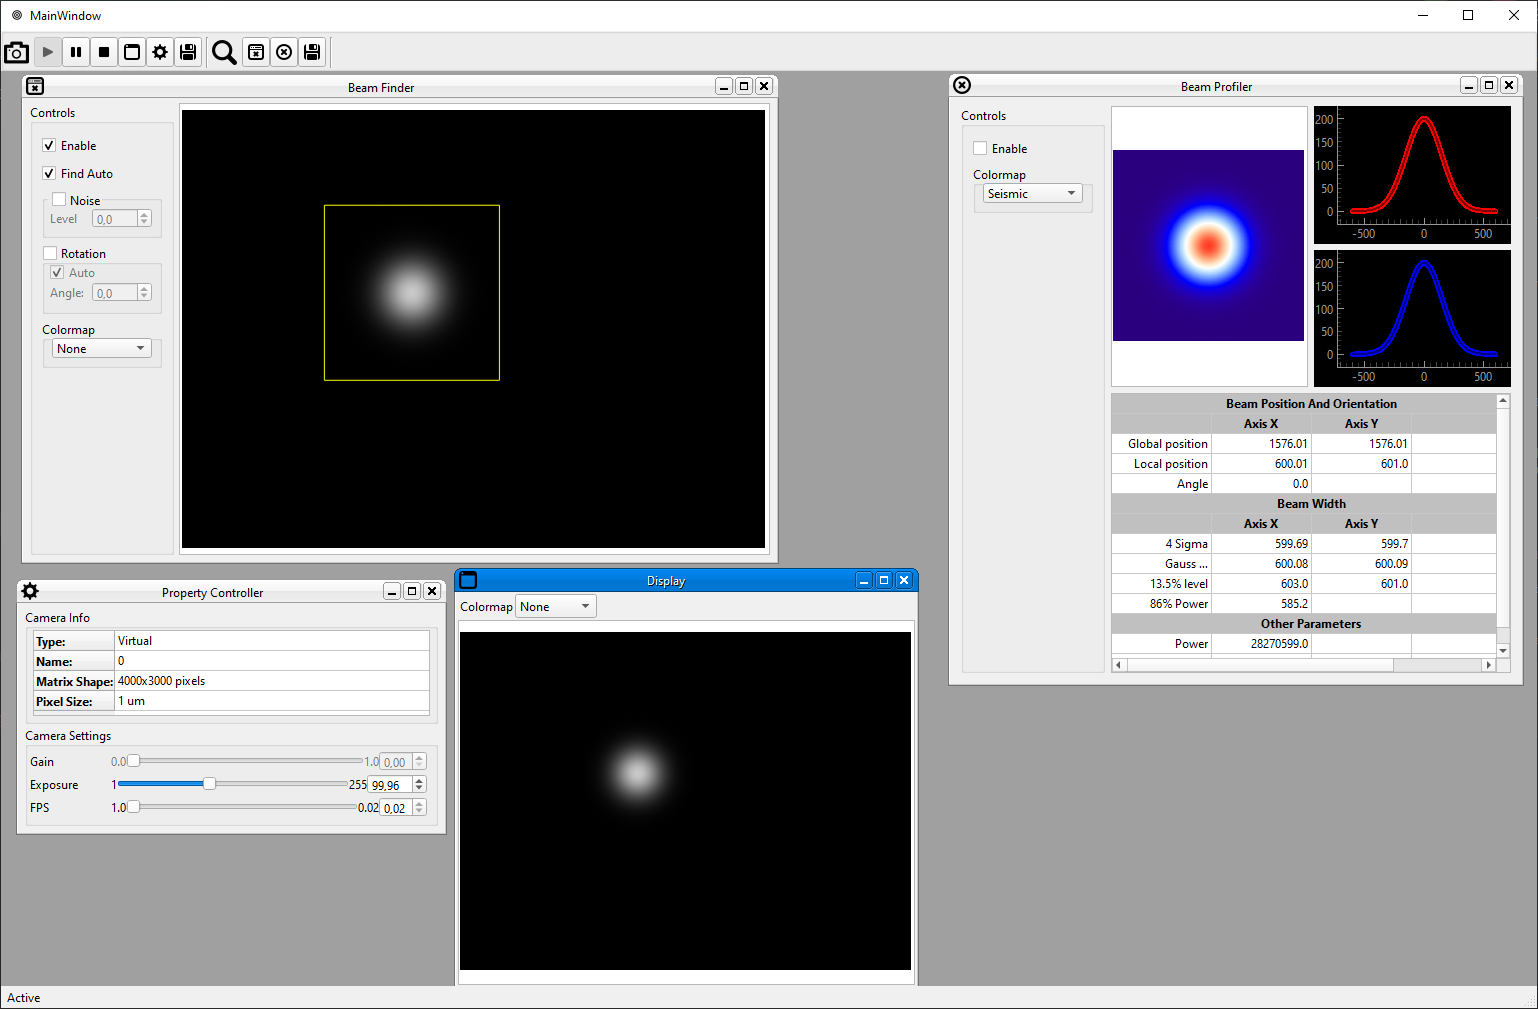
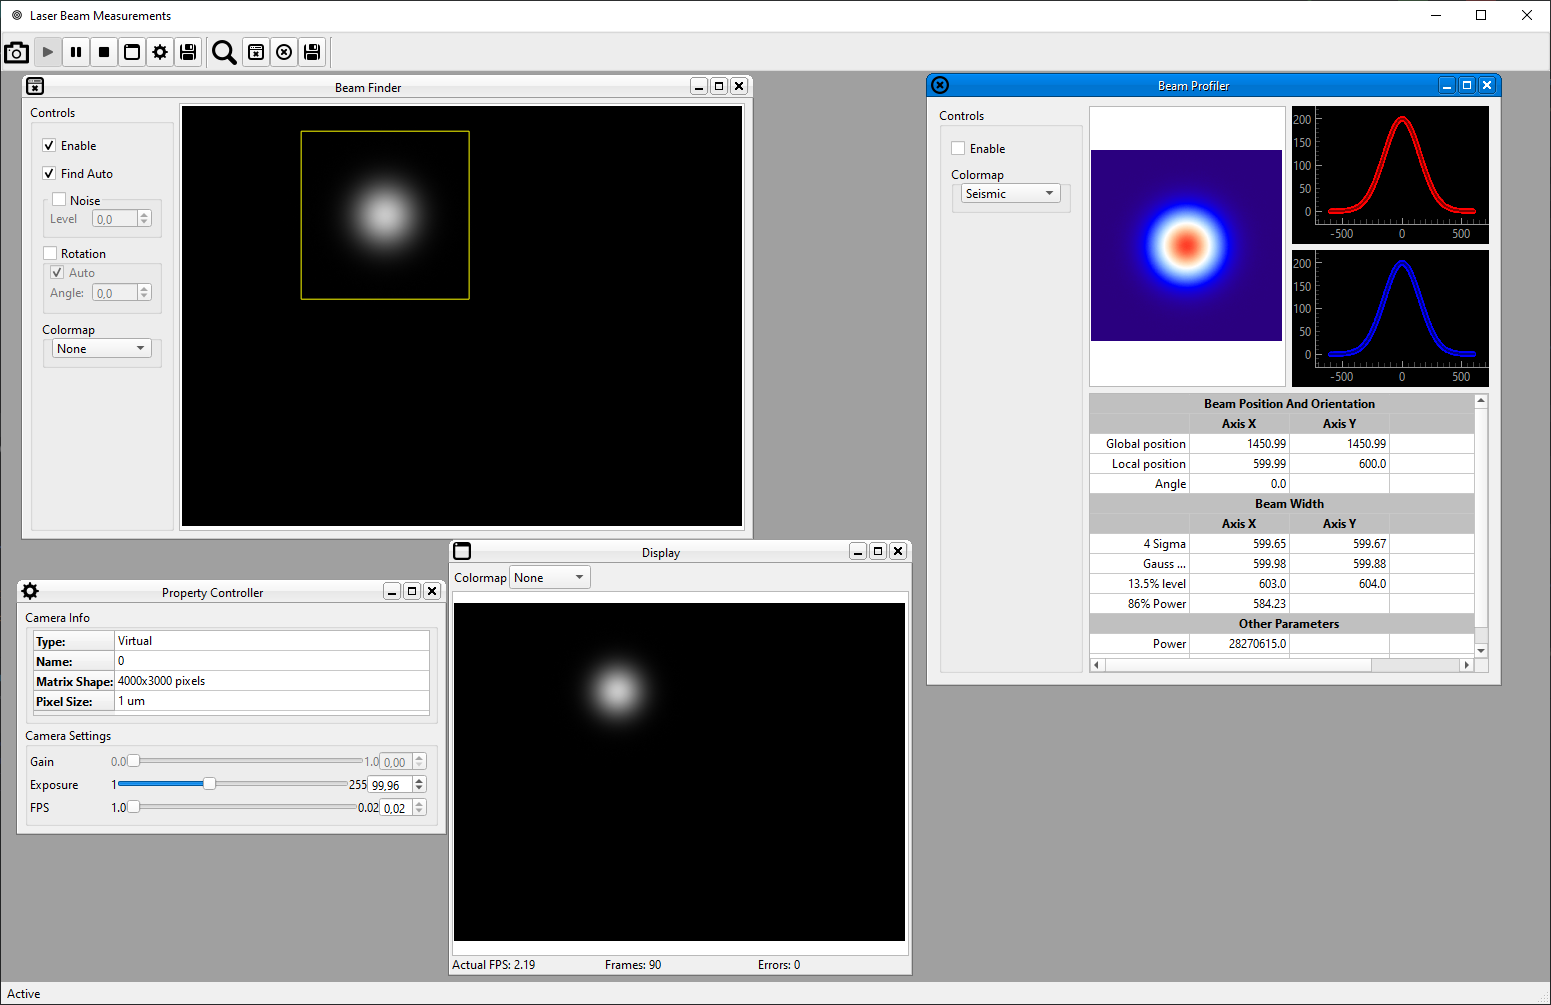
add MainWindow title

diff --git a/laser_beam_measurements/widgets/main/main_window.py b/laser_beam_measurements/widgets/main/main_window.py
@@ -51,10 +51,9 @@ class MainWindow(QMainWindow):
 
     def __init__(self, main_object: MainObject, parent=None):
         super().__init__(parent)
-        widget = QWidget()
-        self.setCentralWidget(widget)
         self.ui = Ui_MainWindow()
         self.ui.setupUi(self)
+        self.setWindowTitle("Laser Beam Measurements")
 
         self._main_object: MainObject = main_object
         self._icons = Icons()
